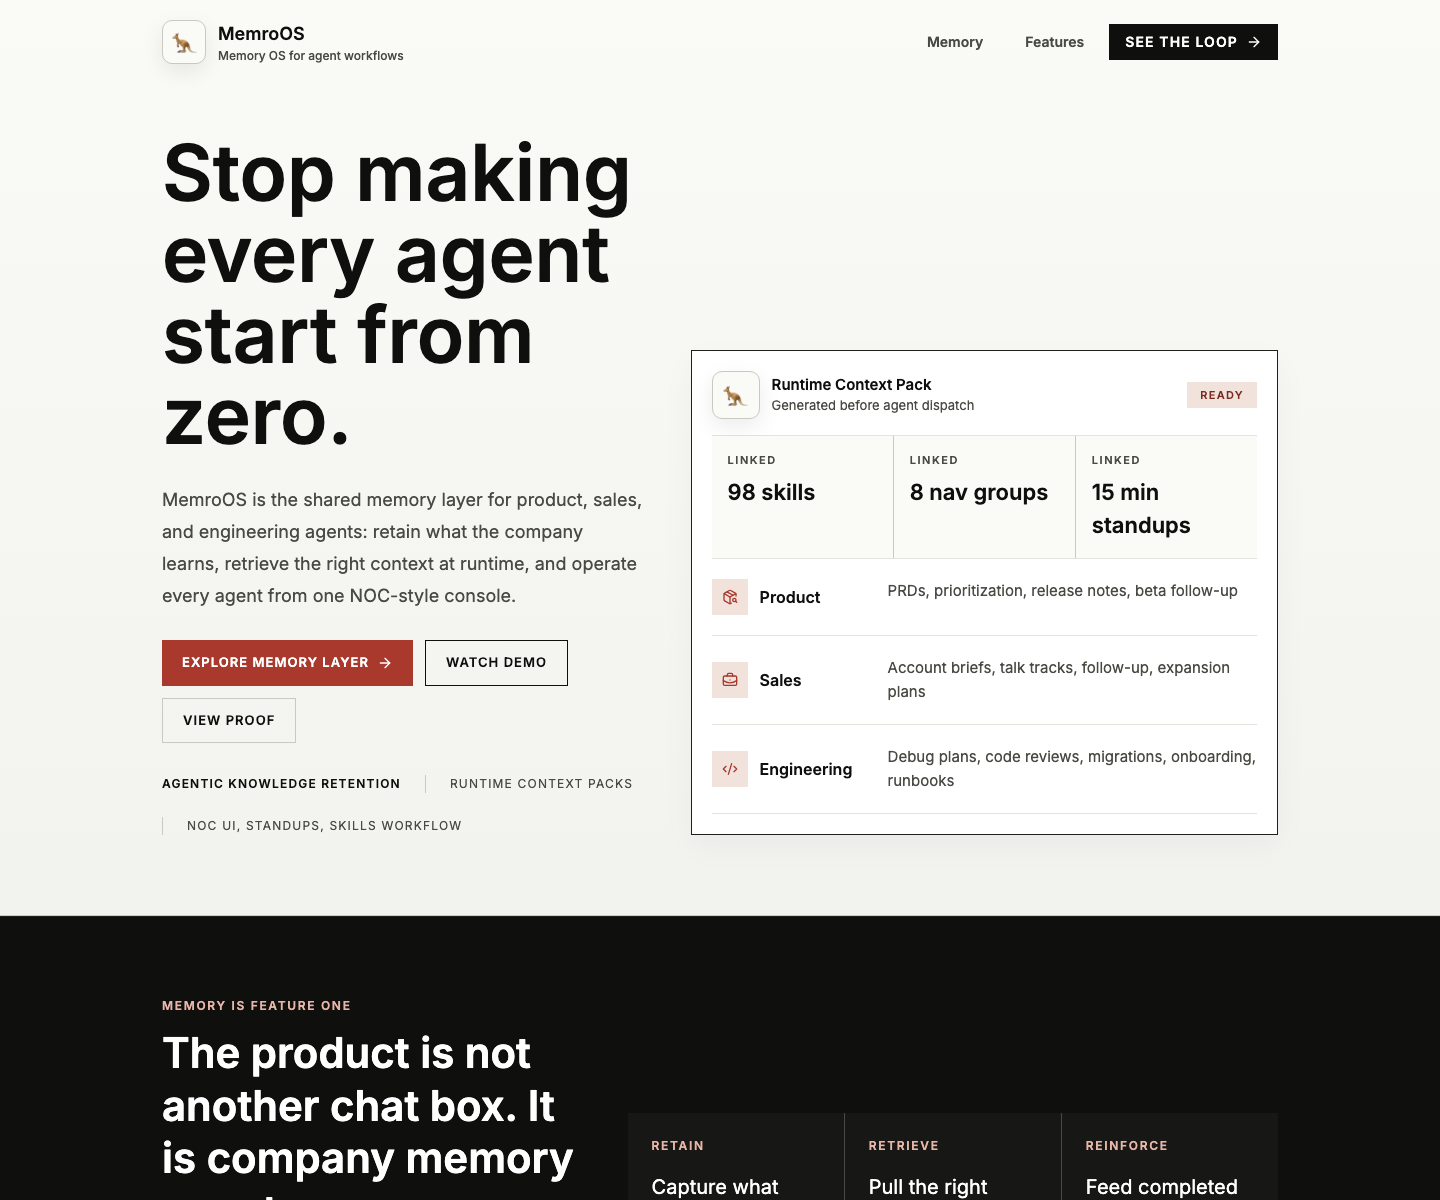
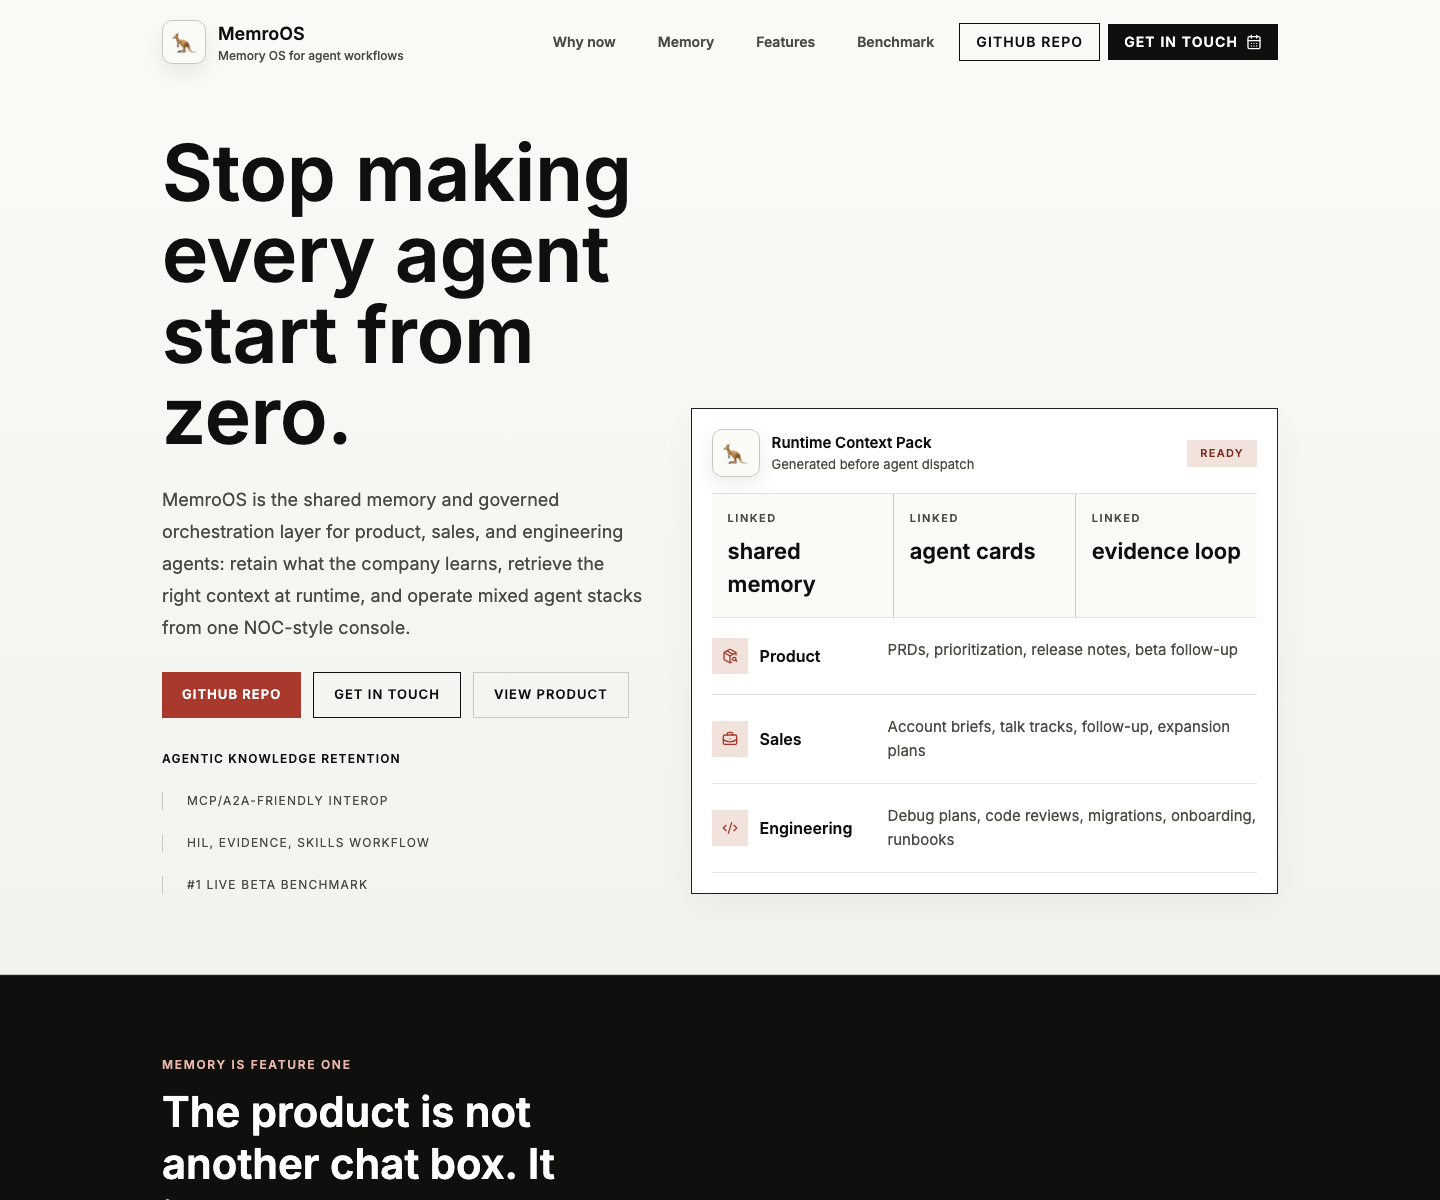
Update public landing CTAs and screenshots

diff --git a/apps/memroos/src/app/page.tsx b/apps/memroos/src/app/page.tsx
@@ -6,9 +6,11 @@ import {
   ArrowRight,
   Brain,
   BriefcaseBusiness,
+  CalendarDays,
   CheckCircle2,
   Code2,
   Database,
+  ExternalLink,
   FileSearch,
   Gauge,
   GitBranch,
@@ -27,6 +29,9 @@ import { OperationsNoc } from "@/components/operations";
 
 const PUBLIC_LANDING_HOSTS = new Set(["memroos.com", "www.memroos.com", "memroos.vercel.app"]);
 const RESEARCH_PAPER_HREF = "/research/memroos-governed-knowledge-architecture-paper.pdf";
+const GITHUB_REPO_HREF = "https://github.com/lac5q/memroos";
+const GOOGLE_CALENDAR_HREF =
+  "https://calendar.google.com/calendar/appointments/schedules/AcZssZ2JkygvmpuopbcqA_NAPJZDRp0RfmZGa2x_w_oV_dFm-cYVGEyEYG9vy80meCKZzyianVC6P2vJ";
 function isPublicLandingHost(host: string): boolean {
   const normalized = host.split(":")[0]?.toLowerCase() ?? "";
   return PUBLIC_LANDING_HOSTS.has(normalized) || normalized.endsWith(".vercel.app");
@@ -141,6 +146,33 @@ const operatorSurfaces = [
     label: "Evidence loop",
     value: "trace",
     detail: "The roadmap ties agent output back to sources used, memories consumed, tool actions, verification checks, and residual risk.",
+  },
+];
+
+const screenshotShowcase = [
+  {
+    title: "Operator NOC",
+    image: "/screenshots/memroos-floor.png",
+    alt: "MemroOS operator NOC showing memory consumption, workload, model utility, governance, and agent activity panels.",
+    detail: "One operational surface for memory health, agent workload, governance, and evidence.",
+  },
+  {
+    title: "Memory",
+    image: "/screenshots/readme-memory.png",
+    alt: "MemroOS memory page with retained context search and memory activity surfaces.",
+    detail: "Search retained context before dispatch, then trace what agents consumed.",
+  },
+  {
+    title: "Dispatch",
+    image: "/screenshots/readme-dispatch.png",
+    alt: "MemroOS dispatch page with agent cards, live delegations, and task state.",
+    detail: "Send work to local, REST, and A2A-style agents from one governed registry.",
+  },
+  {
+    title: "Skills",
+    image: "/screenshots/readme-skills.png",
+    alt: "MemroOS skills page showing skill lifecycle, analytics, and review workflow.",
+    detail: "Promote repeated successful workflows into reviewed, reusable procedures.",
   },
 ];
 
@@ -407,11 +439,19 @@ function LandingPage() {
               Benchmark
             </Link>
             <Link
-              href="#memory-loop"
+              href={GITHUB_REPO_HREF}
+              target="_blank"
+              rel="noopener noreferrer"
+              className="hidden items-center gap-2 border border-[#0f0f0e] px-4 py-2 text-sm font-semibold uppercase tracking-[0.08em] text-[#0f0f0e] transition hover:bg-[#0f0f0e] hover:text-white sm:inline-flex"
+            >
+              GitHub repo
+            </Link>
+            <Link
+              href="#contact"
               className="inline-flex items-center gap-2 bg-[#0f0f0e] px-4 py-2 text-sm font-semibold uppercase tracking-[0.08em] text-white transition hover:bg-[#a8392c]"
             >
-              See the loop
-              <ArrowRight className="h-4 w-4" aria-hidden="true" />
+              Get in touch
+              <CalendarDays className="h-4 w-4" aria-hidden="true" />
             </Link>
           </div>
         </div>
@@ -426,23 +466,24 @@ function LandingPage() {
             </p>
             <div className="mt-7 flex flex-wrap gap-3">
               <Link
-                href="#memory-first"
+                href={GITHUB_REPO_HREF}
+                target="_blank"
+                rel="noopener noreferrer"
                 className="inline-flex items-center gap-2 bg-[#a8392c] px-5 py-3 text-[13px] font-semibold uppercase tracking-[0.08em] text-white transition hover:bg-[#7a2a1e]"
               >
-                Explore memory layer
-                <ArrowRight className="h-4 w-4" aria-hidden="true" />
+                GitHub repo
               </Link>
               <Link
-                href="#demo"
+                href="#contact"
                 className="inline-flex items-center border border-[#0f0f0e] px-5 py-3 text-[13px] font-semibold uppercase tracking-[0.08em] text-[#0f0f0e] transition hover:bg-[#0f0f0e] hover:text-white"
               >
-                Watch demo
+                Get in touch
               </Link>
               <Link
-                href="#proof"
+                href="#screenshots"
                 className="inline-flex items-center border border-[#c9c9c2] px-5 py-3 text-[13px] font-semibold uppercase tracking-[0.08em] text-[#0f0f0e] transition hover:border-[#0f0f0e]"
               >
-                View proof
+                View product
               </Link>
             </div>
             <div className="mt-8 flex flex-wrap items-center gap-6 text-[12px] uppercase tracking-[0.1em] text-[#4a4a45]">
@@ -629,6 +670,42 @@ function LandingPage() {
         </div>
       </section>
 
+      <section id="screenshots" className="border-b border-[#1f1f1c] bg-[#0f0f0e] text-white">
+        <div className="mx-auto max-w-[1180px] px-5 py-16 sm:px-8 lg:py-20">
+          <div className="grid gap-8 lg:grid-cols-[0.76fr_1.24fr] lg:items-end">
+            <div>
+              <p className="text-[12px] font-semibold uppercase tracking-[0.14em] text-[#e7b6a8]">Product screenshots</p>
+              <h2 className="mt-3 text-[42px] font-semibold leading-tight tracking-normal text-white">
+                Public repo proof, now visible on the site too.
+              </h2>
+            </div>
+            <p className="text-[17px] leading-8 text-[#d8d4cb]">
+              The README and public landing page now point at the same updated product surfaces: the operator NOC, retained memory, governed dispatch, and the skills workflow.
+            </p>
+          </div>
+          <div className="mt-8 grid gap-5 lg:grid-cols-2">
+            {screenshotShowcase.map((screenshot) => (
+              <figure key={screenshot.title} className="overflow-hidden border border-[#4a4a45] bg-[#171715]">
+                <div className="relative aspect-[16/10] w-full bg-[#080a12]">
+                  <Image
+                    src={screenshot.image}
+                    alt={screenshot.alt}
+                    fill
+                    unoptimized
+                    sizes="(max-width: 1024px) 100vw, 560px"
+                    className="object-cover object-top"
+                  />
+                </div>
+                <figcaption className="border-t border-[#4a4a45] p-5">
+                  <h3 className="text-[20px] font-semibold text-white">{screenshot.title}</h3>
+                  <p className="mt-2 text-[15px] leading-7 text-[#d8d4cb]">{screenshot.detail}</p>
+                </figcaption>
+              </figure>
+            ))}
+          </div>
+        </div>
+      </section>
+
       <section id="memory-architecture" className="border-b border-[#c9c9c2] bg-[#fafaf7]">
         <div className="mx-auto max-w-[1180px] px-5 py-16 sm:px-8 lg:py-20">
           <div className="grid gap-8 lg:grid-cols-[0.72fr_1.28fr] lg:items-end">
@@ -745,7 +822,9 @@ function LandingPage() {
                 <ArrowRight className="h-4 w-4" aria-hidden="true" />
               </a>
               <Link
-                href="https://github.com/lac5q/memroos"
+                href={GITHUB_REPO_HREF}
+                target="_blank"
+                rel="noopener noreferrer"
                 className="inline-flex items-center border border-[#0f0f0e] px-5 py-3 text-[13px] font-semibold uppercase tracking-[0.08em] text-[#0f0f0e] transition hover:bg-[#0f0f0e] hover:text-white"
               >
                 GitHub repo
@@ -922,22 +1001,51 @@ function LandingPage() {
         </div>
       </section>
 
-      <section className="mx-auto max-w-[1180px] px-5 py-16 sm:px-8 lg:py-20">
-        <div className="border-y border-[#0f0f0e] py-10">
-          <div className="grid gap-6 md:grid-cols-[1fr_auto] md:items-center">
+      <section id="contact" className="mx-auto max-w-[1180px] px-5 py-16 sm:px-8 lg:py-20">
+        <div className="grid gap-8 border-y border-[#0f0f0e] py-10 lg:grid-cols-[0.78fr_1.22fr] lg:items-start">
+          <div>
             <div className="flex items-center gap-4">
               <KangarooMark className="h-12 w-12 border border-[#c9c9c2]" />
-              <h2 className="max-w-[20ch] text-[42px] font-semibold leading-tight tracking-normal text-[#0f0f0e]">
-                Give every agent the team&apos;s lived context before it starts.
-              </h2>
+              <p className="text-[12px] font-semibold uppercase tracking-[0.14em] text-[#7a2a1e]">Get in touch</p>
             </div>
-            <Link
-              href="#memory-loop"
-              className="inline-flex items-center justify-center gap-2 bg-[#0f0f0e] px-5 py-3 text-[13px] font-semibold uppercase tracking-[0.08em] text-white transition hover:bg-[#a8392c]"
-            >
-              See memory loop
-              <ArrowRight className="h-4 w-4" aria-hidden="true" />
-            </Link>
+            <h2 className="mt-6 max-w-[19ch] text-[42px] font-semibold leading-tight tracking-normal text-[#0f0f0e]">
+              Book time with Luis to talk through your agent memory stack.
+            </h2>
+            <p className="mt-5 text-[17px] leading-8 text-[#4a4a45]">
+              Bring a workflow where agents keep rediscovering the same context. The best first call is usually a concrete walkthrough of where memory, governance, and proof break today.
+            </p>
+            <div className="mt-7 flex flex-wrap gap-3">
+              <Link
+                href={GOOGLE_CALENDAR_HREF}
+                target="_blank"
+                rel="noopener noreferrer"
+                className="inline-flex items-center justify-center gap-2 bg-[#a8392c] px-5 py-3 text-[13px] font-semibold uppercase tracking-[0.08em] text-white transition hover:bg-[#7a2a1e]"
+              >
+                Schedule on Google Calendar
+                <ExternalLink className="h-4 w-4" aria-hidden="true" />
+              </Link>
+              <Link
+                href={GITHUB_REPO_HREF}
+                target="_blank"
+                rel="noopener noreferrer"
+                className="inline-flex items-center justify-center gap-2 border border-[#0f0f0e] px-5 py-3 text-[13px] font-semibold uppercase tracking-[0.08em] text-[#0f0f0e] transition hover:bg-[#0f0f0e] hover:text-white"
+              >
+                GitHub repo
+              </Link>
+            </div>
+          </div>
+          <div className="overflow-hidden border border-[#1f1f1c] bg-white shadow-[0_16px_36px_rgba(15,15,14,0.08)]">
+            <div className="flex items-center justify-between border-b border-[#c9c9c2] bg-[#fafaf7] px-4 py-3">
+              <p className="text-[13px] font-semibold uppercase tracking-[0.12em] text-[#0f0f0e]">Luis Calderon availability</p>
+              <CalendarDays className="h-5 w-5 text-[#a8392c]" aria-hidden="true" />
+            </div>
+            <iframe
+              title="Book time with Luis"
+              src={GOOGLE_CALENDAR_HREF}
+              className="h-[680px] w-full bg-white"
+              loading="lazy"
+              referrerPolicy="no-referrer-when-downgrade"
+            />
           </div>
         </div>
       </section>

diff --git a/apps/memroos/src/__tests__/proxy.test.ts b/apps/memroos/src/__tests__/proxy.test.ts
@@ -73,4 +73,15 @@ describe("proxy", () => {
     expect(response.status).toBe(200);
     expect(response.headers.get("location")).toBeNull();
   });
+
+  it("serves public screenshot assets on the marketing host", async () => {
+    const response = await proxy(
+      new NextRequest("https://memroos.com/screenshots/memroos-floor.png", {
+        headers: { host: "memroos.com" },
+      })
+    );
+
+    expect(response.status).toBe(200);
+    expect(response.headers.get("location")).toBeNull();
+  });
 });

diff --git a/apps/memroos/src/proxy.ts b/apps/memroos/src/proxy.ts
@@ -23,7 +23,8 @@ function isLandingAsset(pathname: string): boolean {
     pathname.startsWith("/assets/") ||
     pathname.startsWith("/diagrams/") ||
     pathname.startsWith("/demo/") ||
-    pathname.startsWith("/research/")
+    pathname.startsWith("/research/") ||
+    pathname.startsWith("/screenshots/")
   );
 }
 